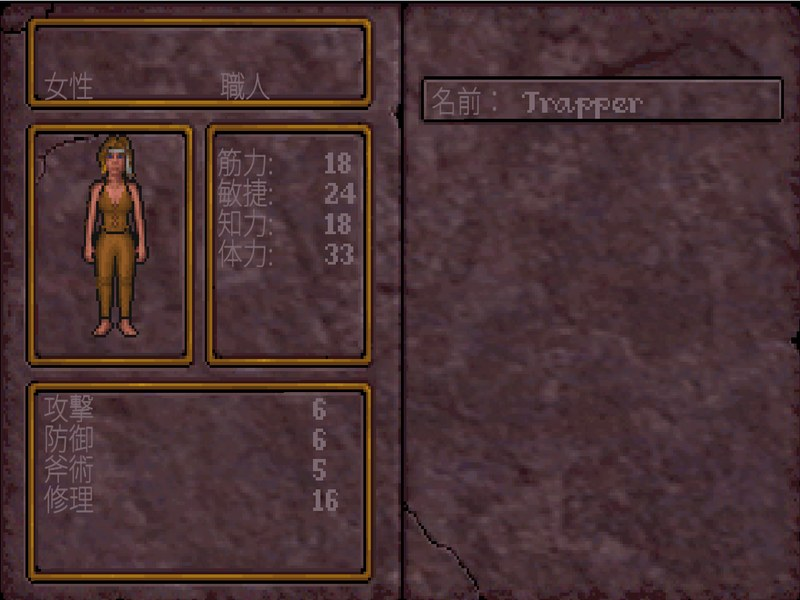
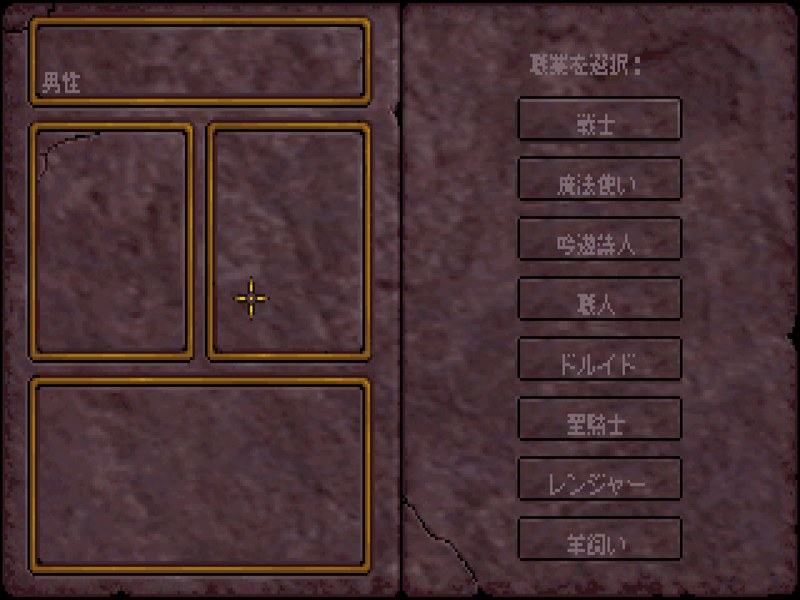
外伝 ウルティマ アンダーワールド: DOS 版の日本語化パッチ（v1.0）のページにする
Underworld Revisited で遊ぶ方法は、ページの後ろの「別の遊び方」にまとめた。

diff --git a/docs/underworld/index.html b/docs/underworld/index.html
@@ -3,11 +3,11 @@
 <head>
 <meta charset="utf-8">
 <meta name="viewport" content="width=device-width, initial-scale=1">
-<title>ウルティマ アンダーワールド 日本語版 — ウルティマ シリーズ 日本語化プロジェクト</title>
-<meta name="description" content="GOG.com 版 ウルティマ アンダーワールド（Ultima Underworld: The Stygian Abyss）を、再実装版 Underworld Revisited で日本語で遊べるようにする、非公式のファンメイド日本語版。">
+<title>ウルティマ アンダーワールド 日本語化パッチ — ウルティマ シリーズ 日本語化プロジェクト</title>
+<meta name="description" content="GOG.com 版 ウルティマ アンダーワールド（Ultima Underworld: The Stygian Abyss、DOS 版）を日本語で遊べるようにする、非公式のファンメイドパッチ。">
 <meta property="og:type" content="article">
-<meta property="og:title" content="ウルティマ アンダーワールド 日本語版">
-<meta property="og:description" content="GOG.com 版 ウルティマ アンダーワールド（Ultima Underworld: The Stygian Abyss）を、再実装版 Underworld Revisited で日本語で遊べるようにする、非公式のファンメイド日本語版。">
+<meta property="og:title" content="ウルティマ アンダーワールド 日本語化パッチ">
+<meta property="og:description" content="GOG.com 版 ウルティマ アンダーワールド（Ultima Underworld: The Stygian Abyss、DOS 版）を日本語で遊べるようにする、非公式のファンメイドパッチ。">
 <meta property="og:url" content="https://higesho.github.io/ultima-ja/underworld/">
 <meta property="og:image" content="https://higesho.github.io/ultima-ja/underworld/img/talk.jpg">
 <link rel="stylesheet" href="../style.css">
@@ -19,11 +19,12 @@
 <main class="band">
 <section class="hero">
 <p class="sub">Ultima Underworld: The Stygian Abyss</p>
-<h1>ウルティマ アンダーワールド 日本語版</h1>
-<p class="tag">GOG.com 版の「Ultima Underworld 1+2」の第1作を日本語で遊べるようにする、非公式のファンメイド日本語版です。
-地下の人々との会話、本や巻物、物の名前、画面に出るメッセージ、メニューやヘルプまで、ゲームの中の文章を日本語にしています。
-ゲームは、原作を Unity で作り直したオープンソースの再実装版「Underworld Revisited」に日本語の表示を加えたもの（同梱）で動かします。ゲームのファイルは書き換えません。</p>
-<p><a class="dl" href="https://github.com/higesho/UnderworldRevisited/releases/tag/ja-preview-20261013">ダウンロード（GitHub）</a></p>
+<h1>ウルティマ アンダーワールド 日本語化パッチ</h1>
+<p class="tag">GOG.com 版の「Ultima Underworld 1+2」の第1作（DOS 版）を日本語で遊べるようにする、非公式のファンメイドパッチです。
+キャラクター作成、深淵の住人との会話、物の名前、巻物に出るメッセージ、本や巻物、オープニングの字幕まで、ゲームの中の文章を日本語にしています。
+ゲームのファイルは書き換えません。</p>
+<p><a class="dl" href="https://github.com/higesho/ultima-ja/releases/tag/underworld-v1.0">ダウンロード（GitHub）</a>
+<a class="dl sub" href="#ur">Underworld Revisited で遊ぶ</a></p>
 </section>
 
 <div class="text">
@@ -40,55 +41,82 @@
 <h2>画面</h2>
 <div class="shots">
   <figure><img src="img/talk.jpg" alt="深淵の住人ブラギットとの会話の画面" loading="lazy"><figcaption>深淵の住人との会話</figcaption></figure>
-  <figure><img src="img/dungeon.jpg" alt="地下迷宮の通路を歩く画面" loading="lazy"><figcaption>地下迷宮</figcaption></figure>
-  <figure><img src="img/create.jpg" alt="キャラクターの能力値と技能が並ぶ画面" loading="lazy"><figcaption>キャラクターの作成</figcaption></figure>
+  <figure><img src="img/look.jpg" alt="壁や床を調べた結果が巻物に出る画面" loading="lazy"><figcaption>調べる</figcaption></figure>
+  <figure><img src="img/opening.jpg" alt="オープニングの字幕の画面" loading="lazy"><figcaption>オープニング</figcaption></figure>
+  <figure><img src="img/create.jpg" alt="キャラクター作成で職業を選ぶ画面" loading="lazy"><figcaption>キャラクターの作成</figcaption></figure>
 </div>
 
 <div class="text">
-<h2>必要なもの</h2>
-<ul>
-<li>Windows 10 以降の 64 ビット版と、DirectX 11 に対応したグラフィックカード。</li>
-<li>GOG.com で販売されている「Ultima Underworld 1+2」をインストールしたもの。ほかの版には対応していません。</li>
-</ul>
-<p>日本語の表示には、パソコンに入っているフォント（Noto Sans JP、游ゴシック、メイリオなど）を使います。Windows に最初から入っているフォントで表示できます。</p>
-
 <h2>入れ方</h2>
 <ol>
-<li>ダウンロードした <code>UnderworldRevisited-ja-preview-20261013-win64.zip</code> を、好きな場所に展開します。</li>
-<li>出てきたフォルダの中の <code>UR.exe</code> をダブルクリックします。
-初めて実行するとき、Windows の警告（「Windows によって PC が保護されました」）が出ることがあります。そのときは「詳細情報」を押してから「実行」を押してください。</li>
-<li>ゲームのフォルダが見つからないときは、フォルダを選ぶ画面が出ます。<code>game.gog</code> があるフォルダ（GOG.com 版をインストールしたフォルダ）を選びます。選んだフォルダは次から覚えています。</li>
-<li>メインメニューが出たら、そのまま日本語で遊べます。</li>
+<li>ダウンロードした <code>UltimaUnderworld_JP.zip</code> を展開します。</li>
+<li>出てきた <code>ウルティマアンダーワールド日本語化パッチ</code> フォルダの中の <code>UWJP.COM</code>・<code>UWJP.DAT</code>・<code>dosboxULTIMA1_single.conf</code> を、ゲームのフォルダ（<code>game.gog</code> がある所）にコピーします。<code>dosboxULTIMA1_single.conf</code> は上書きしてください。</li>
+<li><code>DOSBOX</code> フォルダも、ゲームのフォルダの中の <code>DOSBOX</code> フォルダにコピーします（<code>opengl32.dll</code> と <code>ultima_ja.ini</code> が増えます）。</li>
+<li>いつもどおり GOG Galaxy やショートカットから起動し、最初の画面（Ultima Underworld Launcher）で 1 を押します。</li>
 </ol>
-<p>最初の起動のときに、ゲームのデータを <code>game.gog</code> から読み出すので、少し時間がかかります。GOG.com 版のファイルはそのままなので、DOS 版もこれまでどおり遊べます。</p>
+<p>GOG.com の「Ultima Underworld 1+2」の第1作で使えます。ゲームのファイルは書き換えないので、外せば英語版に戻ります。</p>
 
 <h2>外し方</h2>
 <ul>
-<li>展開したフォルダを消します。</li>
-<li>設定と、読み出したゲームのデータは <code>%USERPROFILE%\AppData\LocalLow\Underworld Revisited</code> にあります。すっかり消したいときは、このフォルダも消してください。</li>
-<li>セーブデータはゲームのフォルダの中（DOS 版と同じ場所）にあるので、消えずに残ります。</li>
+<li>ゲームのフォルダの <code>UWJP.COM</code> と <code>UWJP.DAT</code> を消し、GOG Galaxy の「ファイルの検証/修復」で <code>dosboxULTIMA1_single.conf</code> を元に戻します。</li>
+<li><code>DOSBOX</code> フォルダに増えた <code>opengl32.dll</code> と <code>ultima_ja.ini</code> も消します。</li>
+<li>セーブデータは英語版と共通です。日本語版と英語版を行き来して遊べます。</li>
+</ul>
+
+<h2>字の形</h2>
+<ul>
+<li>日本語の字は東雲フォント（12 ドット）で表示します。<code>DOSBOX</code> フォルダの <code>ultima_ja.ini</code> の <code>font=</code> を <code>misaki</code> に書き換えると、美咲フォント（8 ドット）になります。</li>
+<li>東雲フォントで描き直すのは、無地の背景に 1 色で書かれた字です。模様の上の字や、オープニングの大きな字幕は、美咲フォントの形のまま表示します。</li>
+<li>起動設定で、画面をくっきり広げる表示（<code>glshader=sharp</code>）にしています。</li>
 </ul>
 
 <h2>遊ぶときの注意</h2>
 <ul>
-<li>セーブデータは DOS 版と同じ形で、同じ場所に保存されます。DOS 版と行き来して遊べます。</li>
-<li>操作は、はじめは原作と同じです（マウスで動き、F1〜F10 キーなどが原作どおりに使えます）。Shift＋F2 キーで、WASD キーとマウスで動く現代式の操作に切り替えられます。</li>
-<li>Tab キーでヘルプが開きます。キーの一覧は、展開したフォルダの <code>Docs\CONTROLS.md</code>（英語）にもあります。</li>
-<li>設定は、メインメニューやゲームのメニューの上に並ぶ「ゲーム」「画質」「操作」「音声」などから変えられます。</li>
+<li>操作は英語版と同じです。キーの一覧はゲーム付属のマニュアルをご覧ください。</li>
 <li>キャラクターの名前は英字で入力します。</li>
 <li>会話で言葉を入力する場面、合言葉、ルーンの名前、マントラは、謎解きのために英語のままです。リザードマンの言葉も原作のままです。</li>
-<li>一部の説明や絵の中の文字は英語のままです。</li>
+<li>タイトルのメニュー、オプションのボタン、地図などの絵に描かれた字は英語のままです。</li>
+<li>GOG.com 版のままの設定では、オープニングに字幕が出ません（英語版でも同じです）。</li>
+<li>GOG Galaxy がゲームを更新・修復すると、<code>dosboxULTIMA1_single.conf</code> が元に戻ることがあります。そのときはもう一度上書きしてください。</li>
+</ul>
+
+<h2 id="ur">別の遊び方: Underworld Revisited（Windows アプリ）</h2>
+<p>原作を Unity で作り直したオープンソースの再実装版「Underworld Revisited」に日本語の表示を加えたものでも遊べます。
+現代式の操作や高画質の表示が選べ、メニューやヘルプまで日本語になっています。GOG.com 版のゲームのデータを読み込んで動きます。</p>
+<p><a class="dl sub" href="https://github.com/higesho/UnderworldRevisited/releases/tag/ja-preview-20261013">ダウンロード（GitHub）</a></p>
+<div class="shots">
+  <figure><img src="img/ur_talk.jpg" alt="Underworld Revisited での深淵の住人ブラギットとの会話の画面" loading="lazy"><figcaption>会話</figcaption></figure>
+  <figure><img src="img/ur_dungeon.jpg" alt="Underworld Revisited で地下迷宮の通路を歩く画面" loading="lazy"><figcaption>地下迷宮</figcaption></figure>
+  <figure><img src="img/ur_create.jpg" alt="Underworld Revisited のキャラクターの能力値と技能が並ぶ画面" loading="lazy"><figcaption>キャラクターの作成</figcaption></figure>
+</div>
+<h3>入れ方</h3>
+<ol>
+<li>Windows 10 以降の 64 ビット版と、DirectX 11 に対応したグラフィックカードが要ります。日本語は Windows に最初から入っているフォントで表示します。</li>
+<li>ダウンロードした <code>UnderworldRevisited-ja-preview-20261013-win64.zip</code> を、好きな場所に展開します。</li>
+<li>出てきたフォルダの中の <code>UR.exe</code> をダブルクリックします。
+初めて実行するとき、Windows の警告（「Windows によって PC が保護されました」）が出ることがあります。そのときは「詳細情報」を押してから「実行」を押してください。</li>
+<li>ゲームのフォルダが見つからないときは、フォルダを選ぶ画面が出ます。<code>game.gog</code> があるフォルダを選びます。選んだフォルダは次から覚えています。</li>
+</ol>
+<h3>外し方</h3>
+<ul>
+<li>展開したフォルダを消します。設定と、読み出したゲームのデータは <code>%USERPROFILE%\AppData\LocalLow\Underworld Revisited</code> にあります。すっかり消したいときは、このフォルダも消してください。</li>
+<li>セーブデータは DOS 版と同じ形で、ゲームのフォルダの中に保存されます。DOS 版と行き来して遊べます。</li>
+</ul>
+<h3>遊び方</h3>
+<ul>
+<li>操作は、はじめは原作と同じです。Shift＋F2 キーで、WASD キーとマウスで動く現代式の操作に切り替えられます。Tab キーでヘルプが開きます。</li>
+<li>設定は、メインメニューやゲームのメニューの上に並ぶ「ゲーム」「画質」「操作」「音声」などから変えられます。</li>
 </ul>
 
 <h2>ご意見・誤訳の報告</h2>
 <p>誤訳や不自然な訳、表示がおかしいところに気づいたら、<a href="https://github.com/higesho/ultima-ja/issues">GitHub の Issues</a> で教えてください。
-同梱のゲームプログラムは公式の Underworld Revisited ではないので、この日本語版について Underworld Revisited の作者に問い合わせないでください。</p>
+Underworld Revisited の日本語版は公式の Underworld Revisited ではないので、Underworld Revisited の作者に問い合わせないでください。</p>
 
 <h2>クレジット</h2>
 <ul>
-<li>ゲームは Underworld Revisited（<a href="https://github.com/PQMarine/UnderworldRevisited">https://github.com/PQMarine/UnderworldRevisited</a>、Copyright (c) PQMarine）で動かします。同梱のものは、日本語の表示を加えた非公式版です。Underworld Revisited は MIT License で配布されています。この非公式版のソースは <a href="https://github.com/higesho/UnderworldRevisited/tree/japanese-localization">https://github.com/higesho/UnderworldRevisited</a> の japanese-localization ブランチで公開しています。</li>
-<li>同梱のほかのソフトやフォントの使用許諾は、配布物の <code>LICENSE</code>、<code>THIRD_PARTY_NOTICES.md</code>、<code>ThirdParty</code> フォルダにあります。</li>
-<li>この日本語版の使用は自己責任でお願いします。</li>
+<li>日本語の表示に、美咲フォント（<a href="https://littlelimit.net/misaki.htm">門真 なむ</a>）と東雲フォント（<a href="http://openlab.ring.gr.jp/efont/shinonome/">/efont/</a>）を使っています。美咲フォントは自由に利用・複製・再配布できるフリーソフトウエア、東雲フォントはパブリックドメインです。</li>
+<li>Underworld Revisited（<a href="https://github.com/PQMarine/UnderworldRevisited">https://github.com/PQMarine/UnderworldRevisited</a>、Copyright (c) PQMarine）は MIT License で配布されています。日本語の表示を加えた非公式版のソースは <a href="https://github.com/higesho/UnderworldRevisited/tree/japanese-localization">https://github.com/higesho/UnderworldRevisited</a> の japanese-localization ブランチで公開しています。</li>
+<li>このパッチの使用は自己責任でお願いします。</li>
 </ul>
 </div>
 </main>
